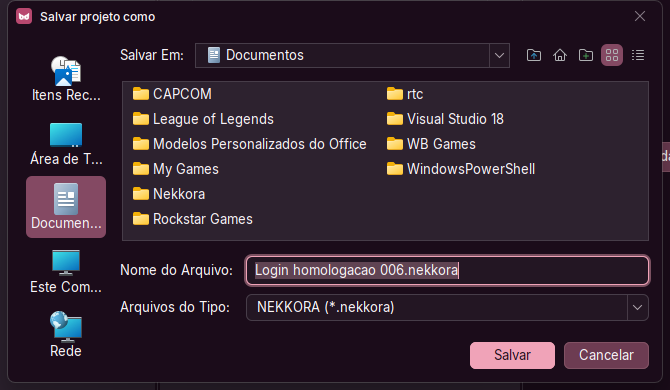
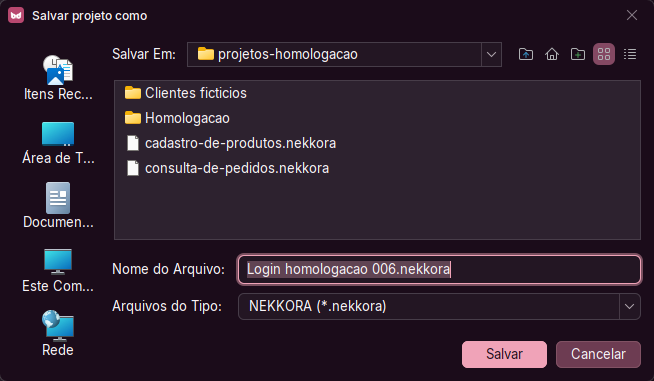
STUDIO-006: higienização da evidência S006-02 (Salvar como sem pastas pessoais)
A captura mostrava a pasta Documentos da máquina de homologação. Nova captura
autêntica do mesmo diálogo real "Salvar projeto como" (Studio real, dados isolados,
automação nova e Ctrl+S real), com uma pasta isolada de nomes fictícios. Nota no
relatório (§23). Histórico do Git não reescrito.

diff --git a/reports/studio-006-final-report.md b/reports/studio-006-final-report.md
@@ -354,3 +354,16 @@ Studio. Nenhuma outra edição foi feita nas imagens.
 
 Sem merge. STUDIO-007 não iniciada. Recorder continua sem liberação para dados reais (homologação só com o laboratório
 fictício). Formato `.nekkora` inalterado.
+
+## 23. Higienização da evidência S006-02 (depois da integração)
+
+Pedido da revisão final do PR #8. A captura `S006-02-salvar-como.png` mostrava a pasta Documentos da máquina de
+homologação, com nomes de pastas do ambiente pessoal, num repositório público. Ela foi substituída por uma captura
+NOVA e autêntica do mesmo diálogo real "Salvar projeto como": o Studio real com diretório de dados isolado, uma
+automação nova "Login homologacao 006" e o **Ctrl+S real**, com uma pasta de projetos isolada que contém só nomes
+fictícios como última pasta usada. A captura cobre só o diálogo. Nenhum outro arquivo de evidência mudou e nenhuma
+funcionalidade foi alterada.
+
+A versão anterior da imagem continua no histórico do Git: o histórico **não** foi reescrito (não autorizado; a imagem
+continha nomes de pastas, sem credenciais nem segredos).
+
